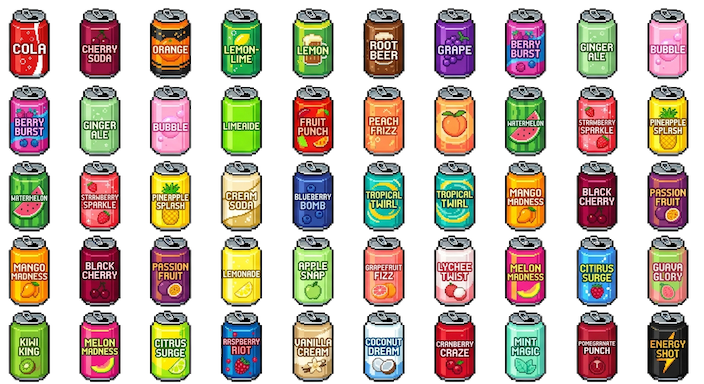
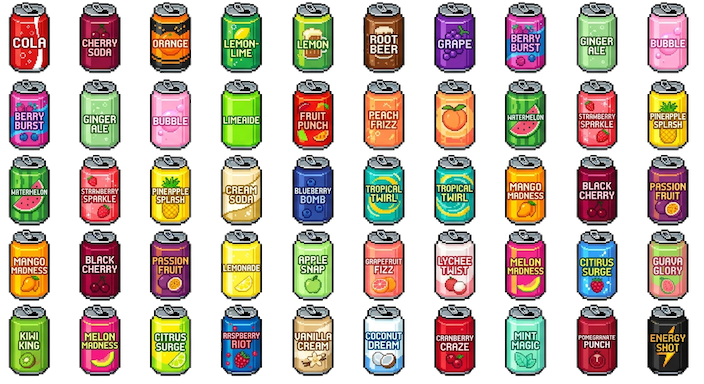
Adjust various of stuff

diff --git a/landing_bomb/game.js b/landing_bomb/game.js
@@ -89,9 +89,6 @@ const {
   drawExplosion, drawScorePopup
 } = require('./js/entities/explosion.js');
 
-// Wave announce
-const { triggerWaveAnnounce, updateWaveAnnounce, drawWaveAnnounce } = require('./js/waveAnnounce.js');
-
 // UI and Input
 const { drawUI, drawGameOver, drawStartScreen, drawPauseScreen } = require('./js/ui.js');
 const { drawGallery, isGalleryVisible } = require('./js/skinGallery.js');
@@ -148,7 +145,7 @@ function init() {
       resetInventory();
       resetReviveStatus();
       startWave(1);
-      triggerWaveAnnounce(1);
+
       analytics.trackGameStart(1);
     },
     onGameReset: () => {
@@ -169,7 +166,7 @@ function init() {
       clearBombFrozenImages();
       resetReviveStatus();
       startWave(1);
-      triggerWaveAnnounce(1);
+
       analytics.trackGameStart(1);
     },
     onFire: (proj) => {
@@ -296,7 +293,7 @@ function update() {
   const waveAction = updateWaves(bombs.length);
   if (waveAction.action === 'start_wave') {
     startWave(waveAction.wave);
-    triggerWaveAnnounce(waveAction.wave);
+
   } else if (waveAction.action === 'spawn_bomb') {
     const waveConfig = getCurrentWaveConfig();
     const bomb = createBomb(waveConfig, getCurrentWave());
@@ -321,7 +318,7 @@ function update() {
   updateFlashAnimations();
 
   // Update wave announce animation
-  updateWaveAnnounce();
+
 
   // Update challenge
   updateChallenge(frameCount);
@@ -614,7 +611,7 @@ function draw() {
   });
 
   // Wave announce arc
-  drawWaveAnnounce(ctx);
+
 
   // UI
   drawUI(ctx);

diff --git a/landing_bomb/js/entities/bomb.js b/landing_bomb/js/entities/bomb.js
@@ -150,8 +150,9 @@ function getWasteSize(wasteRes, variantId) {
   const variant = wasteRes.variants[variantId];
   if (!variant) return { width: 64, height: 64 };
   
-  // Default size for waste sprites
-  return { width: 64, height: 64 };
+  if (!variant.size) return { width: 64, height: 64 };
+  
+  return variant.size;
 }
 
 // Clear stored frozen images (call on game reset)

diff --git a/landing_bomb/js/animationLoader.js b/landing_bomb/js/animationLoader.js
@@ -468,7 +468,7 @@ class AnimationLoader {
     if (!resource || !resource.variants || !resource.variants[variantId]) return;
     
     resource.currentVariant = variantId;
-    resource.image = resource.variants[variantId];
+    resource.image = resource.variants[variantId].image;
   }
 
   /**

diff --git a/landing_bomb/js/powerupSystem.js b/landing_bomb/js/powerupSystem.js
@@ -128,7 +128,7 @@ function drawBombFlash(ctx, bomb, frameCount) {
 function getPowerupImage(type) {
   const res = getResource('powerup');
   if (res && res.variants && res.variants[type]) {
-    return res.variants[type];
+    return res.variants[type].image;
   }
   return null;
 }